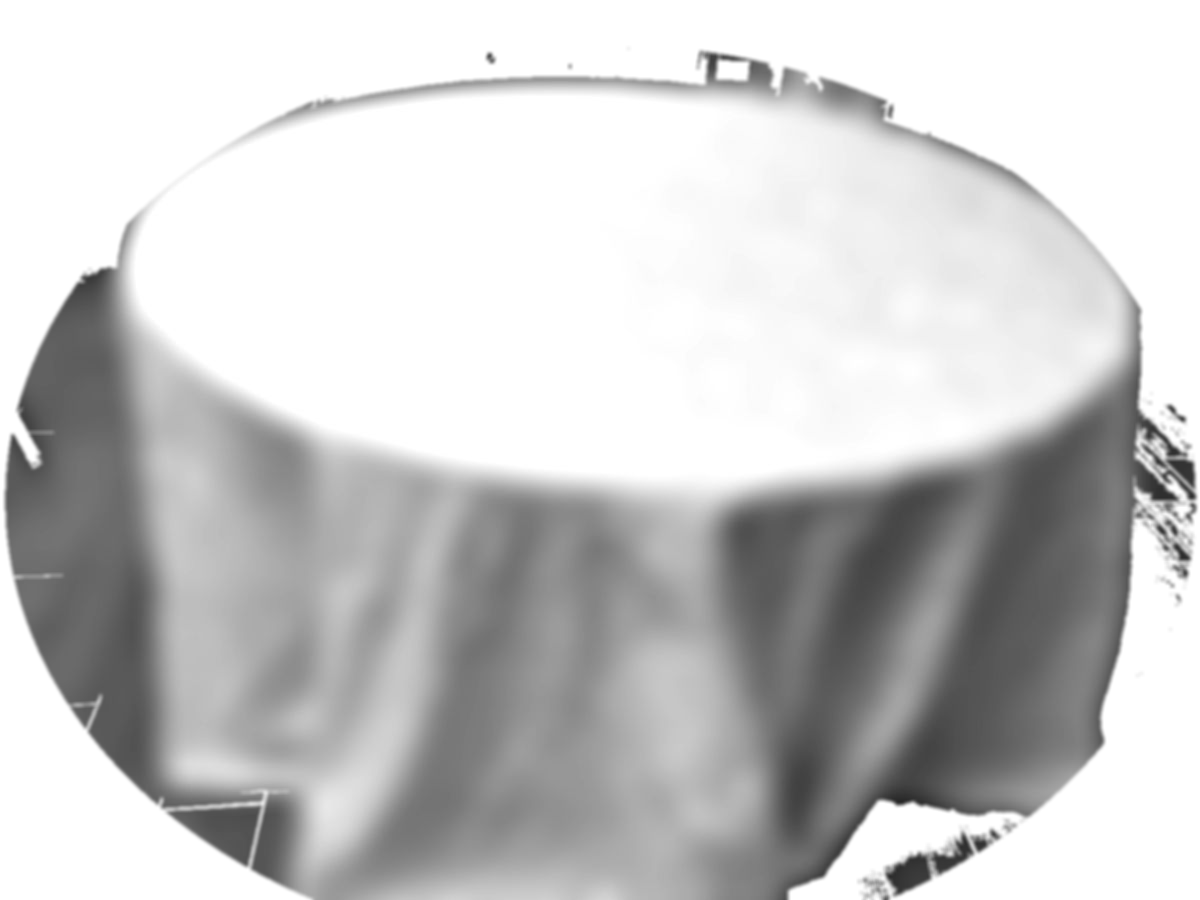
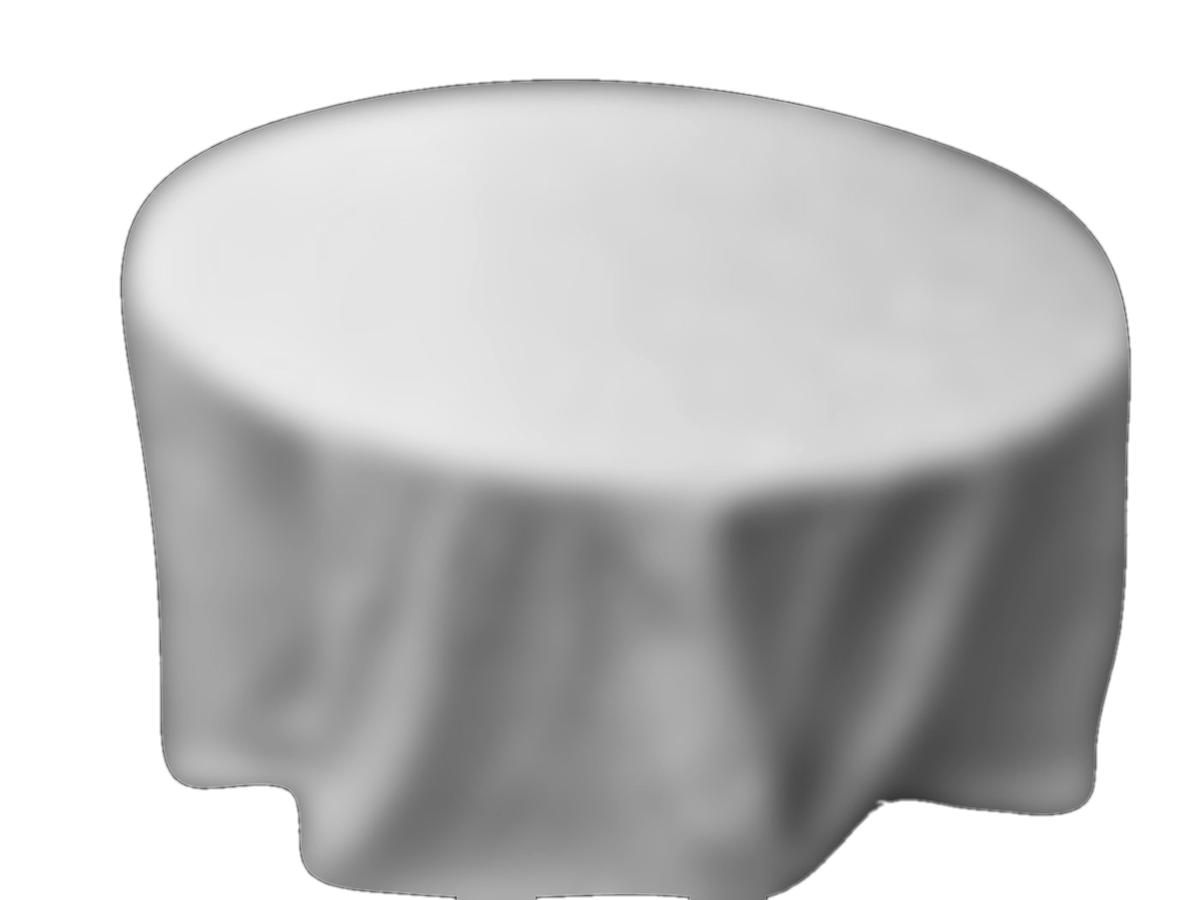
Tablecloth visualizer: real fabric colorization + zoom lens
Rebuilds the round-60 mask/shading assets from the reference photos in
table-setting-visualizer-consolidated.docx instead of last night's
ad-hoc ellipse-bound segmentation: the mask comes from the doc's clean
black-background cutout (near-perfect threshold, no floor/clutter to
confuse it), and the shading map is used as-is instead of re-derived.
Drops the busy real-photo background in favor of the doc's clutter-free
render, which also removes last night's fringe/bleed artifacts.

TableclothColorStage now tiles the product's real swatch photo
(multiply-blended with the shading map) instead of a flat color fill,
and flattens the whole render into one canvas so a hover/touch-drag
magnifier lens can zoom into the actual composited fabric close-up.

diff --git a/src/components/catalog/tablecloth-color-stage.tsx b/src/components/catalog/tablecloth-color-stage.tsx
@@ -1,72 +1,222 @@
 "use client";
 
-import { useEffect, useRef } from "react";
+import { useEffect, useRef, useState, type PointerEvent as ReactPointerEvent } from "react";
 
-const DEFAULT_BG = "/visualizer/round-60-bg.jpg";
+const DEFAULT_BG = "/visualizer/round-60-bg.png";
 const DEFAULT_MASK = "/visualizer/round-60-mask.png";
 const DEFAULT_SHADING = "/visualizer/round-60-shading.png";
 
+// Tile size (px) the swatch photo is downsampled to before being used as a
+// repeating canvas pattern. The source photos are ~900px square close-ups of
+// the fabric weave; tiling at that native size would show only one or two
+// blown-up repeats, so we shrink first for a texture that reads as fabric at
+// the stage's render size.
+const SWATCH_TILE_PX = 120;
+
+const LENS_SIZE = 180; // CSS px, circular magnifier diameter
+const LENS_ZOOM = 3.5;
+
 /**
- * Composites a solid color into the real photographed tablecloth cutout
- * (see scripts/gen-visualizer-real-pair.mjs) so a product's exact color
- * shows up draped on an actual table, folds and shadows included, instead
- * of a flat swatch. Shared by the /visualizer prototype and product pages.
+ * Composites a product's real fabric color/texture into the real photographed
+ * tablecloth cutout (see scripts/gen-visualizer-real-pair.mjs) so it shows up
+ * draped on an actual table, folds and shadows included, instead of a flat
+ * swatch. Shared by the /visualizer prototype and product pages.
+ *
+ * When `swatchUrl` is given (a close-up photo of the actual fabric), it's
+ * tiled as the fill instead of a flat `colorHex` block — real weave/texture
+ * instead of a solid color. Everything (background, colorized cloth, fold
+ * shading) is flattened into one canvas so a hover/touch-drag magnifier lens
+ * can zoom into the actual composited fabric close-up.
  */
 export function TableclothColorStage({
   colorHex,
+  swatchUrl,
   bg = DEFAULT_BG,
   mask = DEFAULT_MASK,
   shading = DEFAULT_SHADING,
   className = "",
 }: {
   colorHex: string;
+  swatchUrl?: string | null;
   bg?: string;
   mask?: string;
   shading?: string;
   className?: string;
 }) {
+  const containerRef = useRef<HTMLDivElement>(null);
   const canvasRef = useRef<HTMLCanvasElement>(null);
+  const lensCanvasRef = useRef<HTMLCanvasElement>(null);
+  const bgImgRef = useRef<HTMLImageElement | null>(null);
   const maskImgRef = useRef<HTMLImageElement | null>(null);
+  const shadingImgRef = useRef<HTMLImageElement | null>(null);
+  const swatchPatternRef = useRef<CanvasPattern | null>(null);
 
-  const paint = (color: string) => {
+  const [lensActive, setLensActive] = useState(false);
+  const [lensPos, setLensPos] = useState({ left: 0, top: 0 });
+  const [touchDragging, setTouchDragging] = useState(false);
+
+  const paint = () => {
     const canvas = canvasRef.current;
     const ctx = canvas?.getContext("2d");
     const maskImg = maskImgRef.current;
     if (!canvas || !ctx || !maskImg) return;
     const { width, height } = canvas;
     ctx.clearRect(0, 0, width, height);
+
+    if (bgImgRef.current) ctx.drawImage(bgImgRef.current, 0, 0, width, height);
+
     ctx.drawImage(maskImg, 0, 0, width, height);
     ctx.globalCompositeOperation = "source-in";
-    ctx.fillStyle = color;
+    ctx.fillStyle = swatchPatternRef.current ?? colorHex;
     ctx.fillRect(0, 0, width, height);
     ctx.globalCompositeOperation = "source-over";
+
+    if (shadingImgRef.current) {
+      ctx.globalCompositeOperation = "multiply";
+      ctx.drawImage(shadingImgRef.current, 0, 0, width, height);
+      ctx.globalCompositeOperation = "source-over";
+    }
   };
+
+  useEffect(() => {
+    const img = new Image();
+    img.src = bg;
+    img.onload = () => {
+      bgImgRef.current = img;
+      paint();
+    };
+    // eslint-disable-next-line react-hooks/exhaustive-deps
+  }, [bg]);
 
   useEffect(() => {
     const img = new Image();
     img.src = mask;
     img.onload = () => {
       maskImgRef.current = img;
-      paint(colorHex);
+      paint();
     };
     // eslint-disable-next-line react-hooks/exhaustive-deps
   }, [mask]);
 
   useEffect(() => {
-    paint(colorHex);
-  }, [colorHex]);
+    const img = new Image();
+    img.src = shading;
+    img.onload = () => {
+      shadingImgRef.current = img;
+      paint();
+    };
+    // eslint-disable-next-line react-hooks/exhaustive-deps
+  }, [shading]);
+
+  useEffect(() => {
+    swatchPatternRef.current = null;
+    if (!swatchUrl) {
+      paint();
+      return;
+    }
+    const img = new Image();
+    img.crossOrigin = "anonymous";
+    img.src = swatchUrl;
+    img.onload = () => {
+      const tile = document.createElement("canvas");
+      tile.width = SWATCH_TILE_PX;
+      tile.height = SWATCH_TILE_PX;
+      const tileCtx = tile.getContext("2d");
+      const ctx = canvasRef.current?.getContext("2d");
+      if (!tileCtx || !ctx) return;
+      tileCtx.drawImage(img, 0, 0, SWATCH_TILE_PX, SWATCH_TILE_PX);
+      swatchPatternRef.current = ctx.createPattern(tile, "repeat");
+      paint();
+    };
+    img.onerror = () => paint();
+    // eslint-disable-next-line react-hooks/exhaustive-deps
+  }, [swatchUrl, colorHex]);
+
+  const updateLens = (clientX: number, clientY: number) => {
+    const container = containerRef.current;
+    const canvas = canvasRef.current;
+    const lens = lensCanvasRef.current;
+    if (!container || !canvas || !lens) return false;
+    const rect = container.getBoundingClientRect();
+    const x = clientX - rect.left;
+    const y = clientY - rect.top;
+    if (x < 0 || y < 0 || x > rect.width || y > rect.height) return false;
+
+    setLensPos({ left: x, top: y });
+
+    const scaleX = canvas.width / rect.width;
+    const scaleY = canvas.height / rect.height;
+    const srcW = (LENS_SIZE / LENS_ZOOM) * scaleX;
+    const srcH = (LENS_SIZE / LENS_ZOOM) * scaleY;
+    const srcX = Math.max(0, Math.min(canvas.width - srcW, x * scaleX - srcW / 2));
+    const srcY = Math.max(0, Math.min(canvas.height - srcH, y * scaleY - srcH / 2));
+
+    const lensCtx = lens.getContext("2d");
+    if (!lensCtx) return true;
+    lensCtx.clearRect(0, 0, lens.width, lens.height);
+    lensCtx.drawImage(canvas, srcX, srcY, srcW, srcH, 0, 0, lens.width, lens.height);
+    return true;
+  };
+
+  const handlePointerMove = (e: ReactPointerEvent<HTMLDivElement>) => {
+    if (e.pointerType === "touch" && !touchDragging) return;
+    const inside = updateLens(e.clientX, e.clientY);
+    setLensActive(inside);
+  };
+
+  const handlePointerDown = (e: ReactPointerEvent<HTMLDivElement>) => {
+    if (e.pointerType === "touch") {
+      setTouchDragging(true);
+      setLensActive(updateLens(e.clientX, e.clientY));
+    }
+  };
+
+  const endLens = () => {
+    setLensActive(false);
+    setTouchDragging(false);
+  };
 
   return (
-    <div className={`relative aspect-[4/3] overflow-hidden border border-line bg-ivory ${className}`}>
-      {/* eslint-disable-next-line @next/next/no-img-element */}
-      <img src={bg} alt="" className="absolute inset-0 h-full w-full object-cover" />
+    <div
+      ref={containerRef}
+      className={`relative aspect-[4/3] overflow-hidden border border-line bg-ivory touch-none ${className}`}
+      onPointerEnter={handlePointerMove}
+      onPointerMove={handlePointerMove}
+      onPointerDown={handlePointerDown}
+      onPointerUp={endLens}
+      onPointerLeave={endLens}
+      onPointerCancel={endLens}
+    >
       <canvas ref={canvasRef} width={1200} height={900} className="absolute inset-0 h-full w-full" />
-      {/* eslint-disable-next-line @next/next/no-img-element */}
-      <img
-        src={shading}
-        alt="A round table dressed with this linen color"
-        className="absolute inset-0 h-full w-full object-cover mix-blend-multiply"
+
+      {/* Always mounted (just hidden) so the ref exists before the first
+          hover/touch — otherwise the very first pointer move has nothing to
+          draw into and the lens never appears. */}
+      <canvas
+        ref={lensCanvasRef}
+        width={LENS_SIZE * 2}
+        height={LENS_SIZE * 2}
+        hidden={!lensActive}
+        className="pointer-events-none absolute rounded-full border-2 border-white shadow-lg"
+        style={{
+          left: lensPos.left - LENS_SIZE / 2,
+          top: lensPos.top - LENS_SIZE / 2,
+          width: LENS_SIZE,
+          height: LENS_SIZE,
+        }}
       />
+      <div
+        hidden={!lensActive}
+        className="pointer-events-none absolute bottom-2 left-1/2 -translate-x-1/2 bg-ink/70 px-2 py-0.5 text-[10px] uppercase tracking-wide text-white"
+      >
+        Fabric close-up
+      </div>
+      <div
+        hidden={lensActive}
+        className="pointer-events-none absolute right-2 top-2 bg-ink/60 px-2 py-0.5 text-[10px] uppercase tracking-wide text-white"
+      >
+        Hover to zoom
+      </div>
     </div>
   );
 }

diff --git a/src/app/(site)/product/[slug]/page.tsx b/src/app/(site)/product/[slug]/page.tsx
@@ -145,7 +145,11 @@ export default async function ProductPage({ params }: PageProps<"/product/[slug]
             {product.colorName} draped on a 60&Prime; round table, folds and shadows
             included.
           </p>
-          <TableclothColorStage colorHex={product.colorHex} className="mt-4 w-full" />
+          <TableclothColorStage
+            colorHex={product.colorHex}
+            swatchUrl={product.imageUrl}
+            className="mt-4 w-full"
+          />
         </section>
       )}
 
